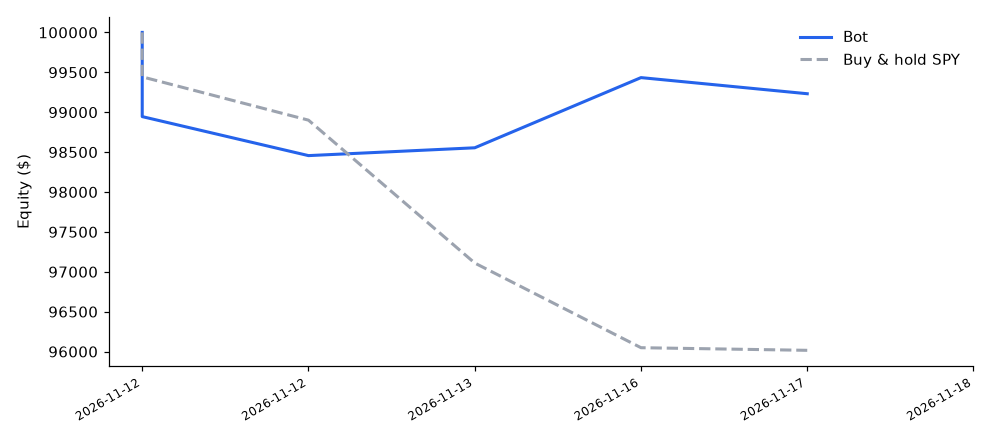
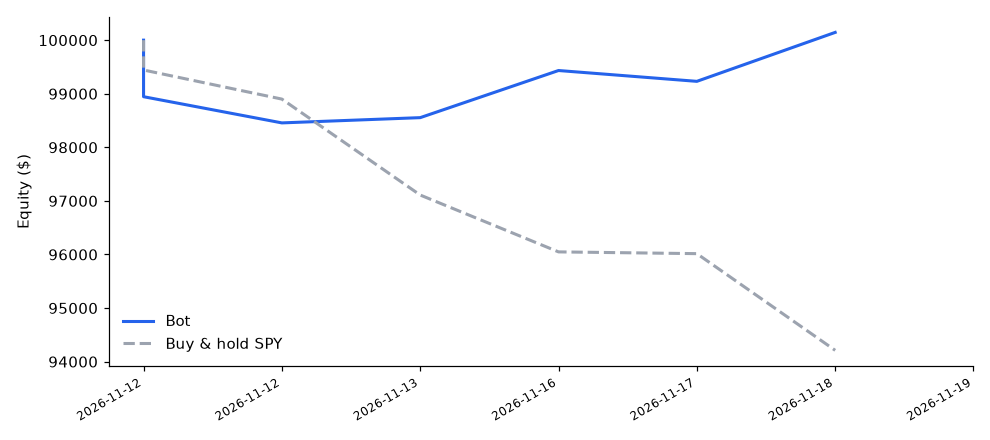
bot: 2026-11-19 15:49 ET

diff --git a/SCORECARD.md b/SCORECARD.md
@@ -2,34 +2,34 @@
 
 _Simulated money only. Updated automatically after each trading day. Live view: the dashboard link in the README._
 
-Since 2026-11-12 - 5 trading day(s)
+Since 2026-11-12 - 6 trading day(s)
 
-**Beating buy-and-hold SPY by 3.22 points.** Only 5 trading day(s) so far - too early to judge (wait for 20+).
+**Beating buy-and-hold SPY by 5.93 points.** Only 6 trading day(s) so far - too early to judge (wait for 20+).
 
 | | Bot | Buy & hold SPY |
 |---|---|---|
-| Return | -0.77% | -3.98% |
-| Equity | $99,231.31 | $96,015.56 |
+| Return | +0.14% | -5.79% |
+| Equity | $100,144.83 | $94,211.26 |
 
 ## Stats
 
 | Metric | Value |
 |---|---|
-| Total P&L | -$768.69 |
-| P&L after est. slippage (3 bps/side, what real money might see) | -$1,178.23 (-1.18%) |
-| Trades | 35 |
+| Total P&L | $144.83 |
+| P&L after est. slippage (3 bps/side, what real money might see) | -$370.76 (-0.37%) |
+| Trades | 44 |
 | Win rate | 20% |
-| Avg win / avg loss | $437.73 / -$136.50 |
-| Profit factor | 0.80 |
+| Avg win / avg loss | $542.62 / -$134.99 |
+| Profit factor | 1.03 |
 | Max drawdown | -1.54% |
-| Best / worst day | $882.79 / -$1,055.34 |
-| Green days | 2 of 5 |
-| Longs | 15 trades, -$1,400.77 |
-| Shorts | 20 trades, $642.91 |
+| Best / worst day | $916.84 / -$1,055.34 |
+| Green days | 3 of 6 |
+| Longs | 20 trades, -$2,170.71 |
+| Shorts | 24 trades, $2,329.69 |
 
 ## Is the AI news filter helping?
 
-The AI blocked 8 trade(s) the rules wanted. Simulated outcome of those trades: -$48.38 -> the filter has **saved $48.38**.
+The AI blocked 9 trade(s) the rules wanted. Simulated outcome of those trades: -$354.89 -> the filter has **saved $354.89**.
 
 ## Small-cap experiment ($5-$10 stocks: tracked, not traded)
 
@@ -48,6 +48,7 @@ R = profit as a multiple of the risk to the stop. Positive after the spread over
 
 | Date | P&L | Bot % | SPY % | Trades | AI blocked |
 |---|---|---|---|---|---|
+| 2026-11-19 | $916.84 | +0.92% | -2.80% | 9 | 1 |
 | 2026-11-18 | -$198.80 | -0.20% | -0.38% | 8 | 0 |
 | 2026-11-17 | $882.79 | +0.90% | -1.03% | 8 | 0 |
 | 2026-11-16 | $100.00 | +0.10% | -1.43% | 8 | 5 |
@@ -58,18 +59,18 @@ R = profit as a multiple of the risk to the stop. Positive after the spread over
 
 | Date | Symbol | Side | Qty | Entry | Exit | P&L |
 |---|---|---|---|---|---|---|
+| 2026-11-19 | WMT | long | 157 | 125.37 | 125.11 | -$40.82 |
+| 2026-11-19 | MSTR | short | 215 | 92.38 | 86.88 | $1,183.17 |
+| 2026-11-19 | IREN | long | 1216 | 16.28 | 16.05 | -$274.69 |
+| 2026-11-19 | BA | long | 120 | 164.15 | 163.51 | -$76.75 |
+| 2026-11-19 | MCD | short | 74 | 267.78 | 268.88 | -$81.41 |
+| 2026-11-19 | AMGN | short | 45 | 440.53 | 441.67 | -$51.33 |
+| 2026-11-19 | MRK | short | 145 | 136.57 | 132.18 | $636.35 |
+| 2026-11-19 | DDOG | long | 110 | 179.77 | 177.75 | -$222.20 |
+| 2026-11-19 | ZS | long | 92 | 214.38 | 212.69 | -$155.48 |
 | 2026-11-18 | BRBR | short | 1554 | 12.83 | 12.96 | -$202.02 |
 | 2026-11-18 | CRM | short | 105 | 188.8 | 189.91 | -$116.21 |
 | 2026-11-18 | XLE | short | 320 | 62.22 | 62.39 | -$55.82 |
 | 2026-11-18 | MSTR | short | 214 | 92.74 | 93.6 | -$184.76 |
 | 2026-11-18 | DASH | long | 119 | 167.16 | 165.57 | -$189.21 |
 | 2026-11-18 | SLV | short | 487 | 40.79 | 40.95 | -$77.92 |
-| 2026-11-18 | PRMB | long | 883 | 22.5 | 22.37 | -$114.79 |
-| 2026-11-18 | MDLN | long | 528 | 37.66 | 39.07 | $741.93 |
-| 2026-11-17 | SLB | short | 396 | 49.95 | 49.04 | $360.36 |
-| 2026-11-17 | DRAM | short | 511 | 38.72 | 39.09 | -$188.65 |
-| 2026-11-17 | HD | long | 57 | 342.45 | 339.42 | -$172.90 |
-| 2026-11-17 | SBUX | long | 179 | 109.8 | 109.4 | -$71.60 |
-| 2026-11-17 | CRM | short | 95 | 205.32 | 194.42 | $1,035.50 |
-| 2026-11-17 | UNH | short | 50 | 390.36 | 391.96 | -$80.32 |
-| 2026-11-17 | MRNA | short | 94 | 208.32 | 210.38 | -$194.08 |
